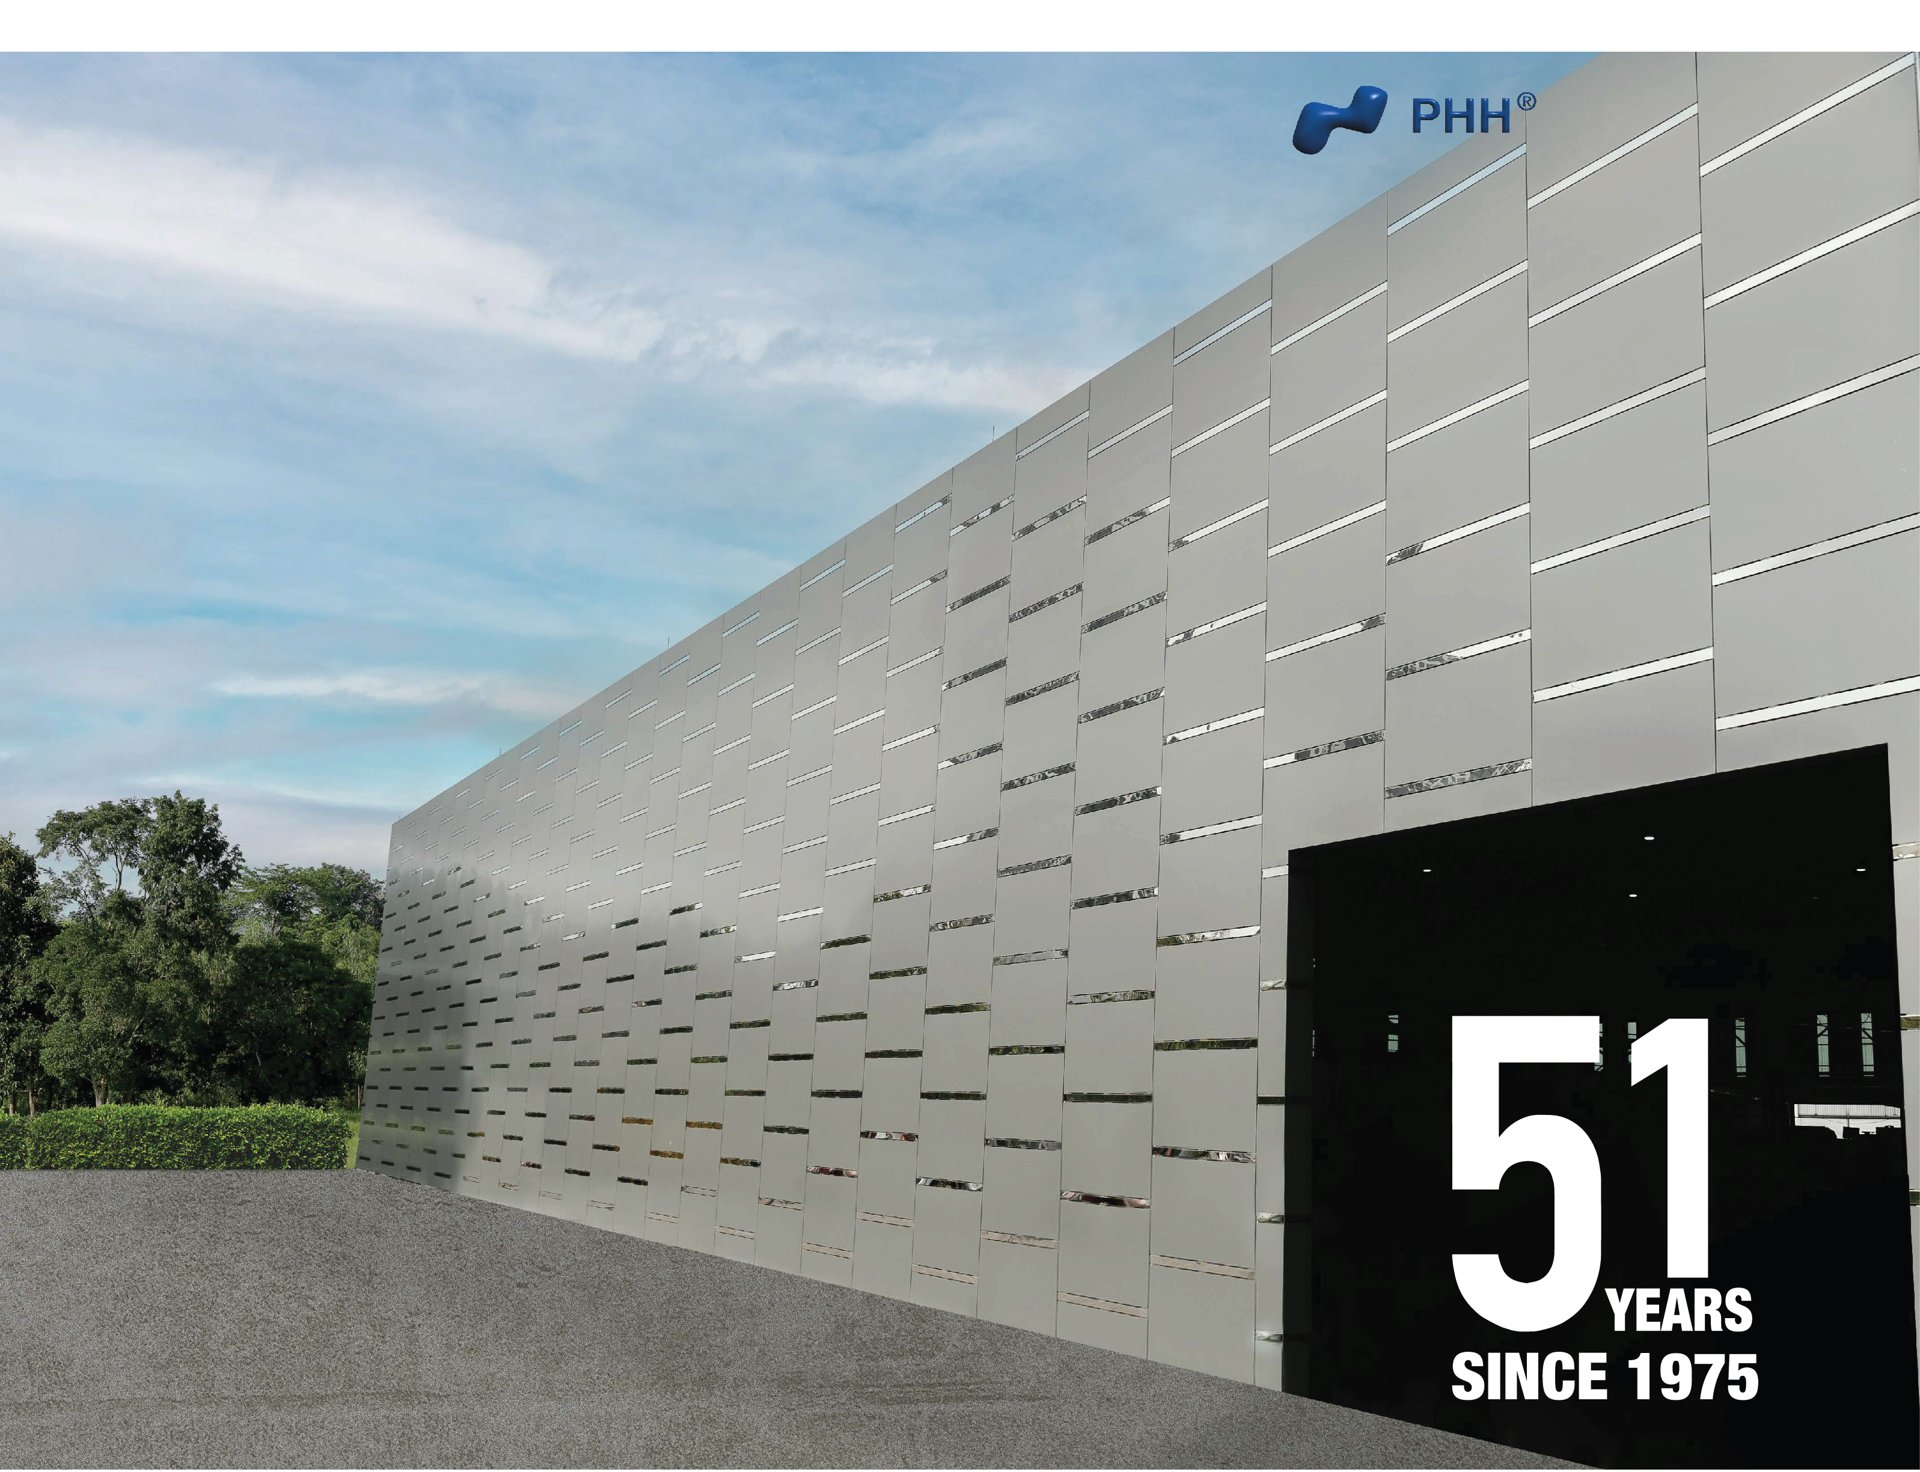
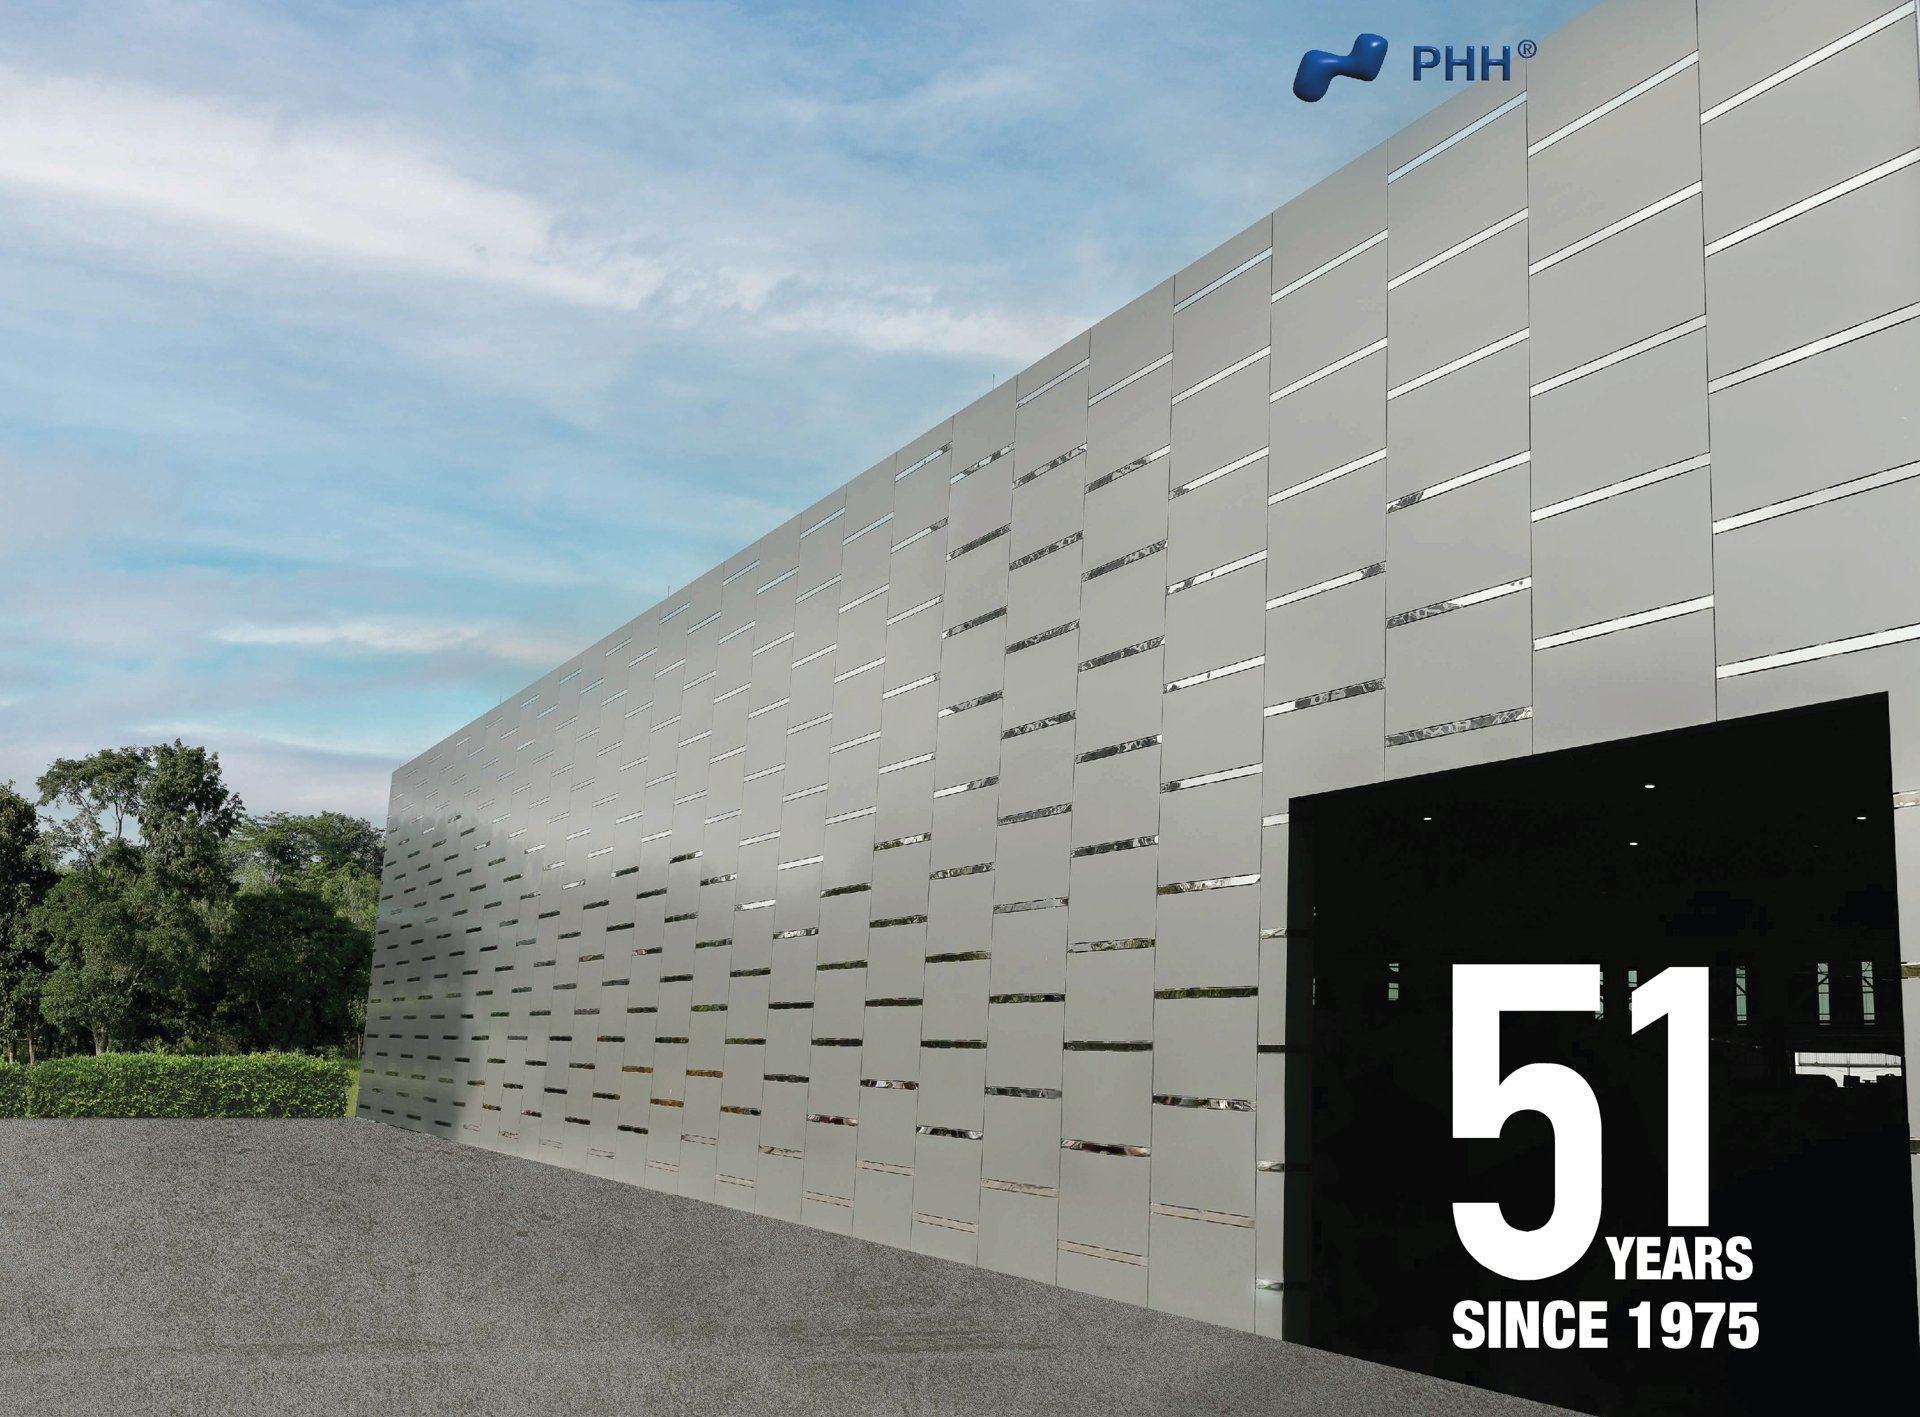
fix(home): buang bingkai PUTIH di tepi atas gambar anniv + grid bg navy (hilangkan 'putih putih')
Akar masalah: file 'years full picture' punya border putih ~87px di atas -> tampil sebagai pita putih di hero & tile. Semua anniv-<n>.jpg & anniv-<n>-p.jpg diproses ulang (crop border putih). Section menu grid: bg-slate-200 -> bg-navBlue agar tak ada abu terang. Diverifikasi: transisi video->hero & hero->grid bersih tanpa putih.

diff --git a/index.html b/index.html
@@ -392,7 +392,7 @@
     </section>
 
     <!-- Menu on Section = 8Page -->
-    <section class="grid md:grid-cols-5 grid-flow-cols-1 w-full md:h-screen  h-auto bg-slate-200">
+    <section class="grid md:grid-cols-5 grid-flow-cols-1 w-full md:h-screen  h-auto bg-navBlue">
         <!-- number 1 -> 50 years = 1Page -->
         <a href="/src/html/about.html" class="relative overflow-hidden group md:h-full h-[300px]">
             <!-- Auto ganti per tahun. Isi PENUH kolom (object-cover, tanpa bingkai).
